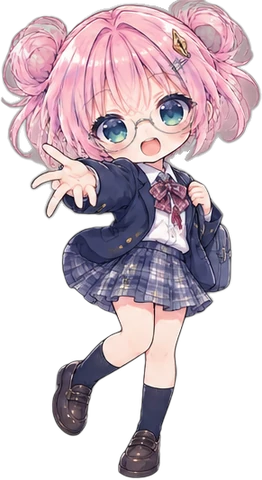
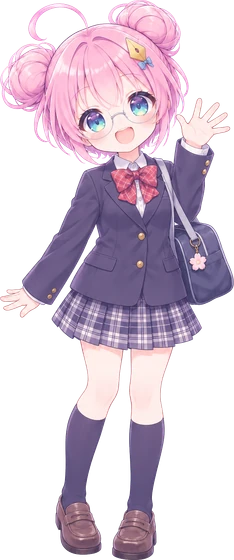
使い方・運営者情報などのページを横幅いっぱいにし、プロフィールのこはるを通常版のその日の服装にする
Claude-Session: https://claude.ai/code/session_0179GcvuKvMQPdA4ff9PfyHk

diff --git a/static/css/style.css b/static/css/style.css
@@ -584,7 +584,7 @@ input:focus,select:focus,button:focus-visible,a:focus-visible{outline:2px solid 
 /* ==========================================================================
 固定ページ
 ========================================================================== */
-.doc{max-width:760px;margin:0 auto;display:flex;flex-direction:column;gap:28px}
+.doc{display:flex;flex-direction:column;gap:28px}
 .doc--form{gap:24px}
 .doc--guide{gap:48px}
 .doc--guide .doc__section{gap:16px}
@@ -622,7 +622,7 @@ input:focus,select:focus,button:focus-visible,a:focus-visible{outline:2px solid 
 /* ==========================================================================
 ナビゲーターの紹介
 ========================================================================== */
-.navi{margin:24px 0 0;display:grid;grid-template-columns:140px minmax(0,1fr);align-items:start;gap:28px}
+.navi{margin:24px 0 0;display:grid;grid-template-columns:160px minmax(0,1fr);align-items:start;gap:28px}
 .navi__image{display:block;justify-self:center}
 .navi__name{margin:0 0 12px;font-size:22px;font-weight:900;line-height:1.4}
 .navi__kana{margin-left:12px;font-size:13px;font-weight:700;color:#8A7F74}

diff --git a/templates/about.html b/templates/about.html
@@ -18,7 +18,7 @@
 <h2 class="doc__title">ナビゲーター</h2>
 {{ kumiko(root, "wink", "漫画新刊JPへようこそ！ このサイトのナビゲーターの櫻塚こはるです。毎日の新刊や特集を案内しているよ。新刊、チェックした？", mod="intro") }}
 <div class="navi">
-<img src="{{ root }}assets/img/kumiko/profile_u.webp" srcset="{{ root }}assets/img/kumiko/profile_u.webp 2x" {{ kumiko_size("profile_u") }} data-kumiko-weekend="{{ root }}assets/img/kumiko/profile_c.webp" data-kumiko-fixed alt="櫻塚こはる" class="navi__image" loading="lazy">
+<img src="{{ root }}assets/img/kumiko/profile_u.webp" srcset="{{ root }}assets/img/kumiko/profile_u.webp 2x" {{ kumiko_size("profile_u") }} data-kumiko-weekend="{{ root }}assets/img/kumiko/profile_c.webp" alt="櫻塚こはる" class="navi__image" loading="lazy">
 <div class="navi__body">
 <p class="navi__name">櫻塚こはる<span class="navi__kana">さくらづか こはる</span></p>
 <dl class="profile">

diff --git a/CLAUDE.md b/CLAUDE.md
@@ -102,7 +102,7 @@
 - 「迷ったら1巻から」のような、当たり前すぎて答えになっていない言い方はしない。別の切り口にするか、「まずは原点のこの一冊」のように、その巻を読む理由が伝わる言い方にする（2026-11-18 運営者の判断）
 - こはるのプロフィール（2026-11-19 運営者の判断。運営者情報のページの「ナビゲーター」に載せる）：櫻塚こはる（さくらづか こはる）。漫画新刊JPのナビゲーター（運営者ではない。運営者は「漫画新刊JP」）。16歳・高校1年生。誕生日 11月3日（まんがの日）。好きな漫画は少年漫画のバトルもの（ほのぼの系はあまり読まない）。好きなものは買った新刊を本棚に1冊ずつ足していく時間。苦手なものはSNSで流れてくるネタバレ。特技は気になる作品の発売日をほぼ全部覚えていること。口ぐせは「新刊、チェックした？」
 - ベタのプロフィール：パグの男の子・3歳。顔が黒いので漫画の「ベタ塗り」からこはるが名付けた。甘えんぼうで、こはるが漫画を読んでいるとひざに乗ってくる。好きなものはこはるのブランケット。特技は開いた漫画の上で寝ること。しゃべらず、鳴き声は「ワフッ」（こはるが通訳する）
-- こはるの服装：デフォルメ版の絵（new-comics-data の characters/deformed。2026-11-19 運営者の判断）を全身で使う（上半身に切り抜かない）。平日は制服（`{ポーズ}_u.webp`）、土日と祝日は私服。私服は5種類（`_c1` 白いニット・`_c2` 白いパーカー・`_c3` ゴシック調・`_c4` ピンクのブラウス・`_c5` 白いダウン）を、休日が来るたびに順番に替える（2026年1月1日からの休日の数で決める。main.js の kumikoSuffix）。同じ日はどのページも同じ私服。祝日は main.js の jpHoliday で判定。運営者情報のプロフィール・X のフォロー・X の投稿の絵は前の絵のまま
+- こはるの服装：デフォルメ版の絵（new-comics-data の characters/deformed。2026-11-19 運営者の判断）を全身で使う（上半身に切り抜かない）。平日は制服（`{ポーズ}_u.webp`）、土日と祝日は私服。私服は5種類（`_c1` 白いニット・`_c2` 白いパーカー・`_c3` ゴシック調・`_c4` ピンクのブラウス・`_c5` 白いダウン）を、休日が来るたびに順番に替える（2026年1月1日からの休日の数で決める。main.js の kumikoSuffix）。同じ日はどのページも同じ私服。祝日は main.js の jpHoliday で判定。運営者情報のプロフィールの絵は通常版の立ち絵（`profile_u.webp`・`profile_c1`〜`_c5.webp`）で、ほかと同じくその日の服装にそろえる（2026-11-20 運営者の判断）。X のフォロー・X の投稿の絵は前の絵のまま
 - こはるの頭身（2026-11-20 運営者の判断）：サイトの中の小さく出る場所はデフォルメ版。特集のサムネイル・プロフィール・X など大きく見せる場所は通常版（およそ5〜5.5頭身）。通常版の見本は new-comics-data の characters/standard/{服装}/wave.png（服装ごとに1枚）。ChatGPT に頼むときは、頭身の見本として通常版の絵を、服装の見本としてデフォルメ版の絵を添付する。指示文には、腕は2本・指は両手とも5本、お団子をくずさない、顔のまわりのふわっとした髪は少なく、を毎回書く
 - なくなったポーズ名は、近いポーズの絵を同じ名前で置いている（clock→calendar・cry→read・board→shinkan・pug2→pug・jump→cheer・sit→bow・knees→sorry・angry→sorry・lean→loupe・wink→peace）
 - 本文の中のこはるのひとことは `[koharu pose="ポーズ"]セリフ[/koharu]` で入れる（`[nemu]` も同じ）
